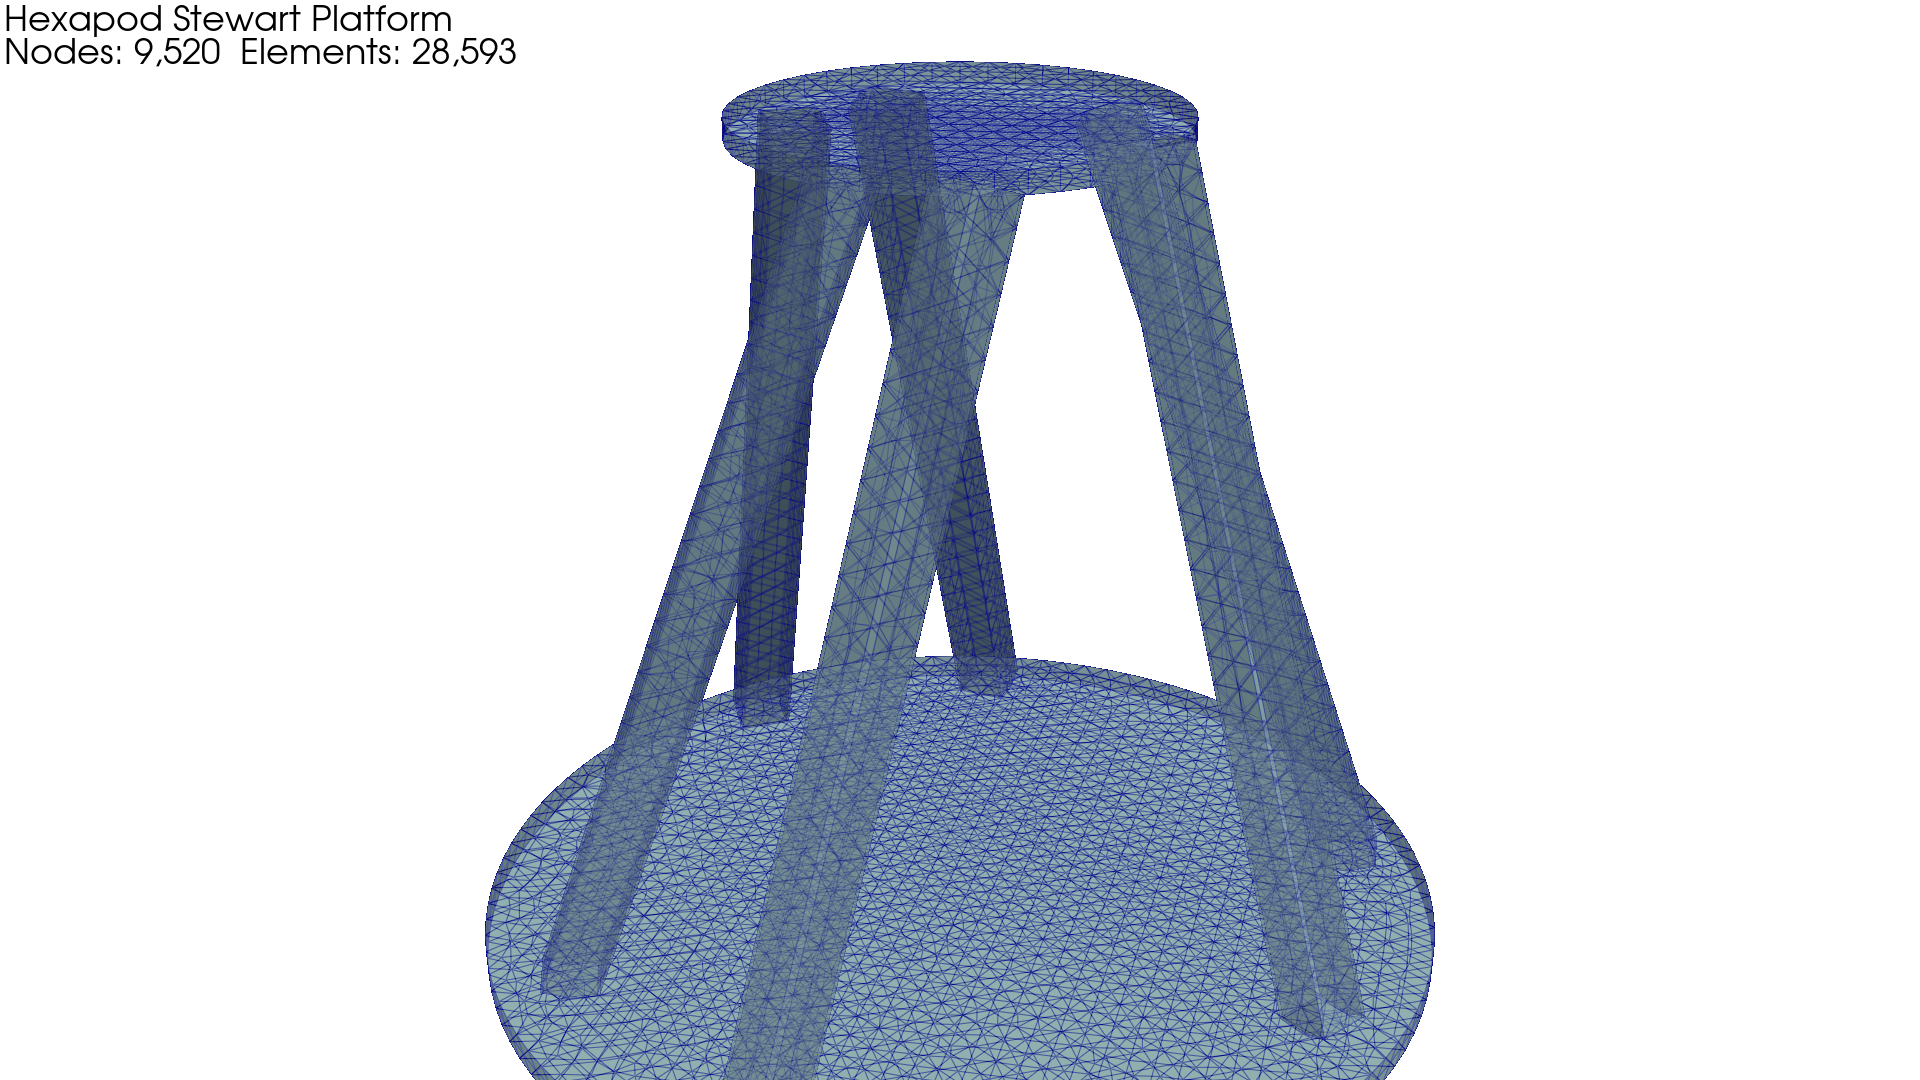
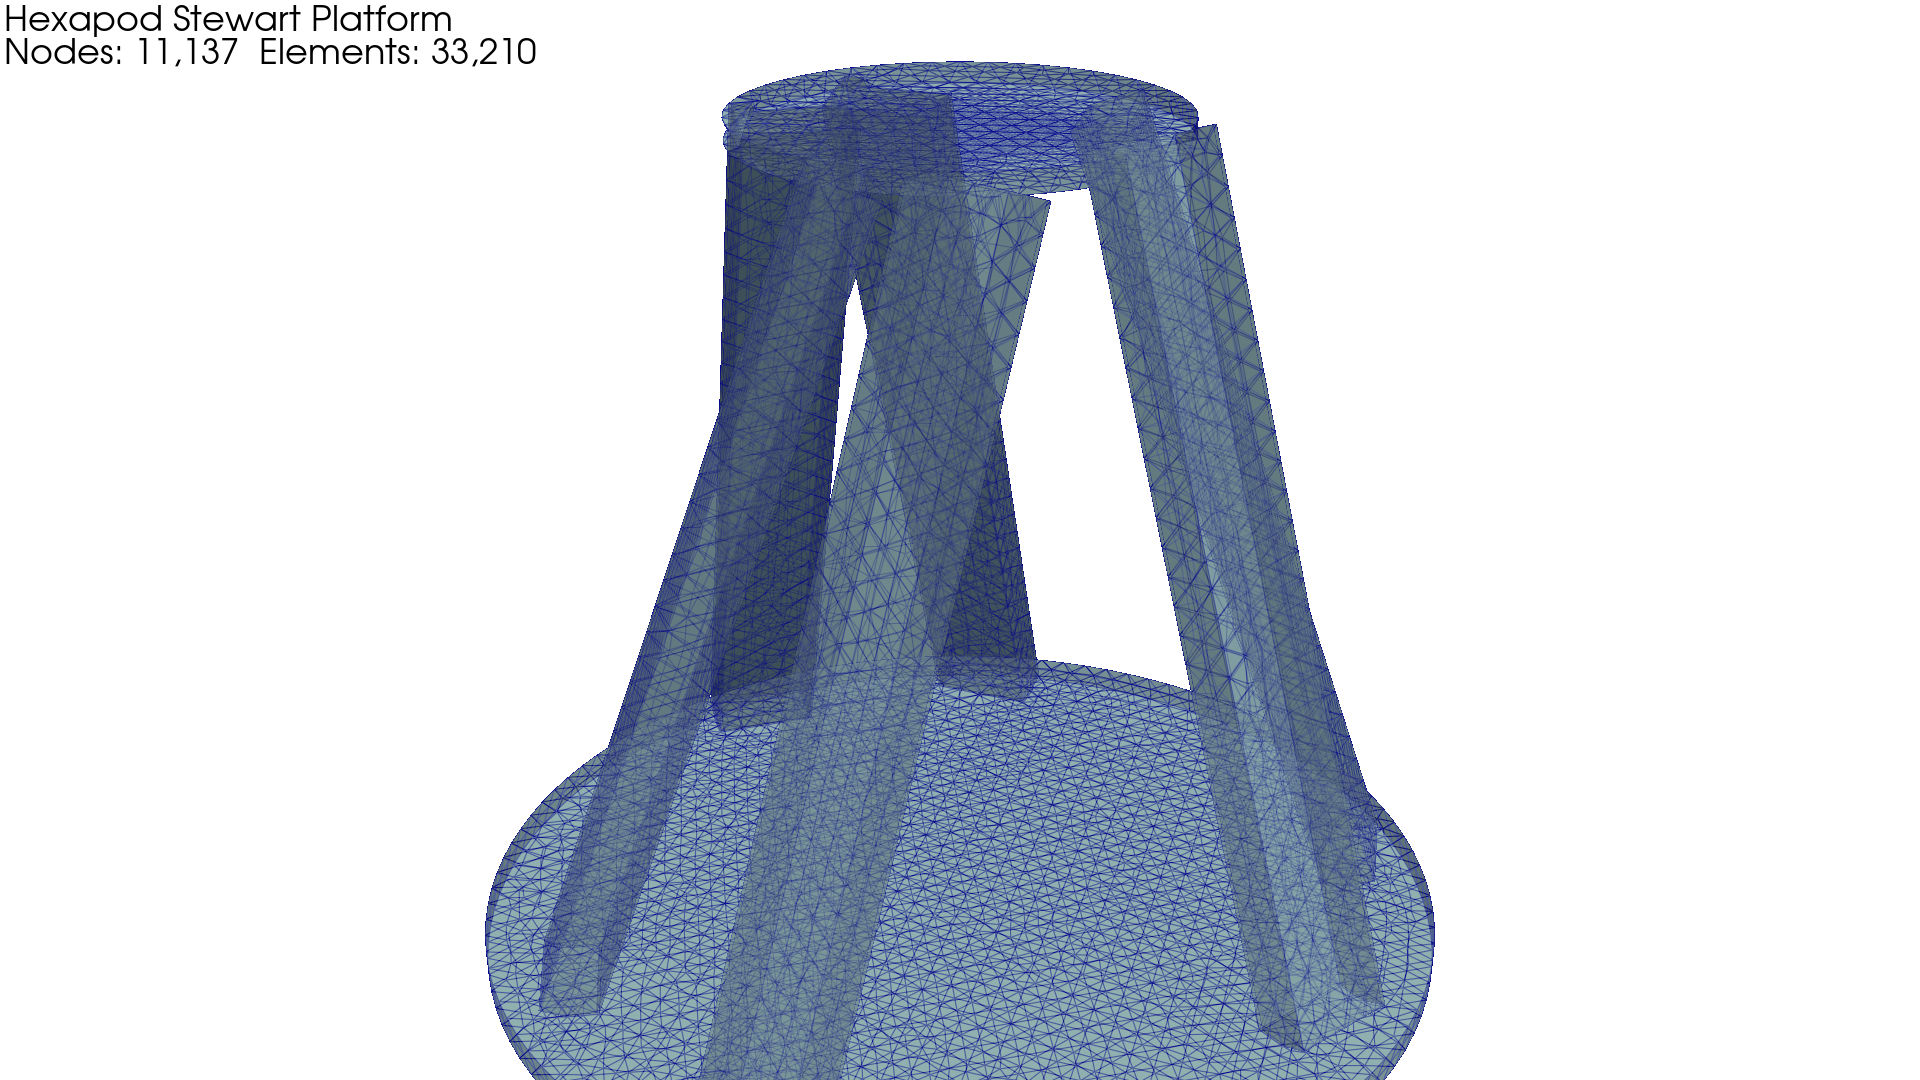
Use proper 4080 C-beam profile (40x80mm) for hexapod struts
Previous version used simplified 40x40mm square tubes.
Now matches TTC450's 4080 C-beam cross-section for fair comparison.

Results with proper profile:
- X: 15.2µm (was 28.3µm) - now matches TTC450
- Y: 15.3µm (was 28.0µm) - 3.5x stiffer than TTC450
- Z: 3.0µm plunge (was 4.5µm) - 6.6x stiffer than TTC450

Changed region(s): [[0.25, 0.0611, 0.75, 1.0], [0.0625, 0.0306, 0.2812, 0.0611]]

diff --git a/fem/geometry/generate_hexapod.py b/fem/geometry/generate_hexapod.py
@@ -215,12 +215,13 @@ def create_hexapod_geometry():
     platform_plate = gmsh.model.occ.addCylinder(0, 0, platform_z, 0, 0, PLATFORM_THICKNESS,
                                                  PLATFORM_RADIUS + 30)
 
-    # Create 6 struts as hollow rectangular tubes
+    # Create 6 struts as hollow rectangular tubes (4080 C-beam profile)
     strut_volumes = []
-    strut_cross = 40.0  # 40x40mm cross-section (simplified from 4080)
+    strut_width = PROFILE_HEIGHT   # 40mm (short dimension)
+    strut_depth = PROFILE_WIDTH    # 80mm (long dimension, along radial direction)
     wall_t = WALL_THICKNESS
 
-    print(f"\nStrut geometry:")
+    print(f"\nStrut geometry (4080 C-beam: {strut_width}x{strut_depth}mm):")
     for i in range(6):
         # Direct pairing: base[i] connects to platform[i]
         bi = base_joints[i]
@@ -241,6 +242,7 @@ def create_hexapod_geometry():
 
         # Create cross-section at base joint
         # Find local coordinate system for the strut
+        # x_loc points radially outward, y_loc is tangential
         if abs(strut_dir[2]) < 0.99:
             up = np.array([0, 0, 1])
         else:
@@ -250,17 +252,19 @@ def create_hexapod_geometry():
         x_loc = x_loc / np.linalg.norm(x_loc)
         y_loc = np.cross(strut_dir, x_loc)
 
-        # Outer profile points
-        hs = strut_cross / 2
+        # Outer profile points - 40mm (width) x 80mm (depth)
+        # depth is along x_loc (radial), width is along y_loc (tangential)
+        hw = strut_width / 2   # 20mm half-width
+        hd = strut_depth / 2   # 40mm half-depth
 
         def to_global(lx, ly, along=0):
             return bi + along * strut_dir + lx * x_loc + ly * y_loc
 
-        # Create outer wire at base
-        p1 = gmsh.model.occ.addPoint(*to_global(-hs, -hs))
-        p2 = gmsh.model.occ.addPoint(*to_global(hs, -hs))
-        p3 = gmsh.model.occ.addPoint(*to_global(hs, hs))
-        p4 = gmsh.model.occ.addPoint(*to_global(-hs, hs))
+        # Create outer wire at base (80mm in x_loc direction, 40mm in y_loc)
+        p1 = gmsh.model.occ.addPoint(*to_global(-hd, -hw))
+        p2 = gmsh.model.occ.addPoint(*to_global(hd, -hw))
+        p3 = gmsh.model.occ.addPoint(*to_global(hd, hw))
+        p4 = gmsh.model.occ.addPoint(*to_global(-hd, hw))
 
         l1 = gmsh.model.occ.addLine(p1, p2)
         l2 = gmsh.model.occ.addLine(p2, p3)
@@ -269,13 +273,14 @@ def create_hexapod_geometry():
 
         outer_wire = gmsh.model.occ.addCurveLoop([l1, l2, l3, l4])
 
-        # Inner profile points (hollow)
-        ihs = hs - wall_t
+        # Inner profile points (hollow) - same wall thickness all around
+        ihw = hw - wall_t  # inner half-width
+        ihd = hd - wall_t  # inner half-depth
 
-        p5 = gmsh.model.occ.addPoint(*to_global(-ihs, -ihs))
-        p6 = gmsh.model.occ.addPoint(*to_global(ihs, -ihs))
-        p7 = gmsh.model.occ.addPoint(*to_global(ihs, ihs))
-        p8 = gmsh.model.occ.addPoint(*to_global(-ihs, ihs))
+        p5 = gmsh.model.occ.addPoint(*to_global(-ihd, -ihw))
+        p6 = gmsh.model.occ.addPoint(*to_global(ihd, -ihw))
+        p7 = gmsh.model.occ.addPoint(*to_global(ihd, ihw))
+        p8 = gmsh.model.occ.addPoint(*to_global(-ihd, ihw))
 
         l5 = gmsh.model.occ.addLine(p5, p6)
         l6 = gmsh.model.occ.addLine(p6, p7)

diff --git a/HEXAPOD.md b/HEXAPOD.md
@@ -16,20 +16,20 @@ Both designs use identical **600mm 4080 C-beam actuators** with Aluminum 6061-T6
 
 | Load Case | TTC450 Gantry | Hexapod | Winner |
 |-----------|---------------|---------|--------|
-| **Z-axis weight** (50N down) | 10.3 µm | 1.9 µm | Hexapod (5.4x) |
-| **Heavy cut X** (100N + weight) | 15.7 µm | 28.3 µm | TTC450 (1.8x) |
-| **Heavy cut Y** (100N + weight) | 52.8 µm | 28.0 µm | Hexapod (1.9x) |
-| **Plunge cut** (100-150N Z) | 19.7 µm | 4.5 µm | Hexapod (4.4x) |
+| **Z-axis weight** (50N down) | 10.3 µm | 1.2 µm | Hexapod (8.6x) |
+| **Heavy cut X** (100N + weight) | 15.7 µm | 15.2 µm | Tie |
+| **Heavy cut Y** (100N + weight) | 52.8 µm | 15.3 µm | Hexapod (3.5x) |
+| **Plunge cut** (100-150N Z) | 19.7 µm | 3.0 µm | Hexapod (6.6x) |
 
 ### Key Findings
 
-1. **Hexapod has perfect X/Y symmetry** - 28.3 µm in X, 28.0 µm in Y (essentially identical)
+1. **Hexapod has perfect X/Y symmetry** - 15.2 µm in X, 15.3 µm in Y (essentially identical)
 
-2. **Hexapod is much stiffer in Z** - 5.4x better for static weight, 4.4x better for plunge cuts due to axial strut loading
+2. **Hexapod is much stiffer in Z** - 8.6x better for static weight, 6.6x better for plunge cuts due to axial strut loading
 
-3. **TTC450 is stiffer in X** - Its strong axis aligns with the gantry beam (16 vs 28 µm)
+3. **X-direction is now equal** - Both designs achieve ~15-16 µm for 100N lateral load
 
-4. **Hexapod eliminates the weak axis** - TTC450's Y-direction (53 µm) is nearly 2x worse than hexapod (28 µm)
+4. **Hexapod eliminates the weak axis** - TTC450's Y-direction (53 µm) is 3.5x worse than hexapod (15 µm)
 
 ---
 
@@ -41,26 +41,26 @@ Tool loads applied at platform center with 5kg Z-axis + spindle weight (50N down
 
 | Load Case | Cutting Force | Tool Deflection |
 |-----------|---------------|-----------------|
-| Z-axis weight only | 0 N | 1.9 µm |
-| **Heavy cut (X)** | 100 N | **28.3 µm** |
-| **Heavy cut (Y)** | 100 N | **28.0 µm** |
-| **Heavy plunge (Z)** | 100 N | **4.5 µm** |
+| Z-axis weight only | 0 N | 1.2 µm |
+| **Heavy cut (X)** | 100 N | **15.2 µm** |
+| **Heavy cut (Y)** | 100 N | **15.3 µm** |
+| **Heavy plunge (Z)** | 100 N | **3.0 µm** |
 
 ### Undeformed Mesh
 
-![Hexapod Mesh](docs/images/hexapod_mesh.png?v=2)
+![Hexapod Mesh](docs/images/hexapod_mesh.png?v=3)
 
 ### Heavy Cut - X Direction (100N)
 
-![Heavy Cut X](docs/images/hexapod_heavy_cut_x.png?v=2)
+![Heavy Cut X](docs/images/hexapod_heavy_cut_x.png?v=3)
 
 ### Heavy Cut - Y Direction (100N)
 
-![Heavy Cut Y](docs/images/hexapod_heavy_cut_y.png?v=2)
+![Heavy Cut Y](docs/images/hexapod_heavy_cut_y.png?v=3)
 
 ### Heavy Plunge Cut - Z Direction (150N)
 
-![Heavy Cut Z](docs/images/hexapod_heavy_cut_z.png?v=2)
+![Heavy Cut Z](docs/images/hexapod_heavy_cut_z.png?v=3)
 
 ---
 
